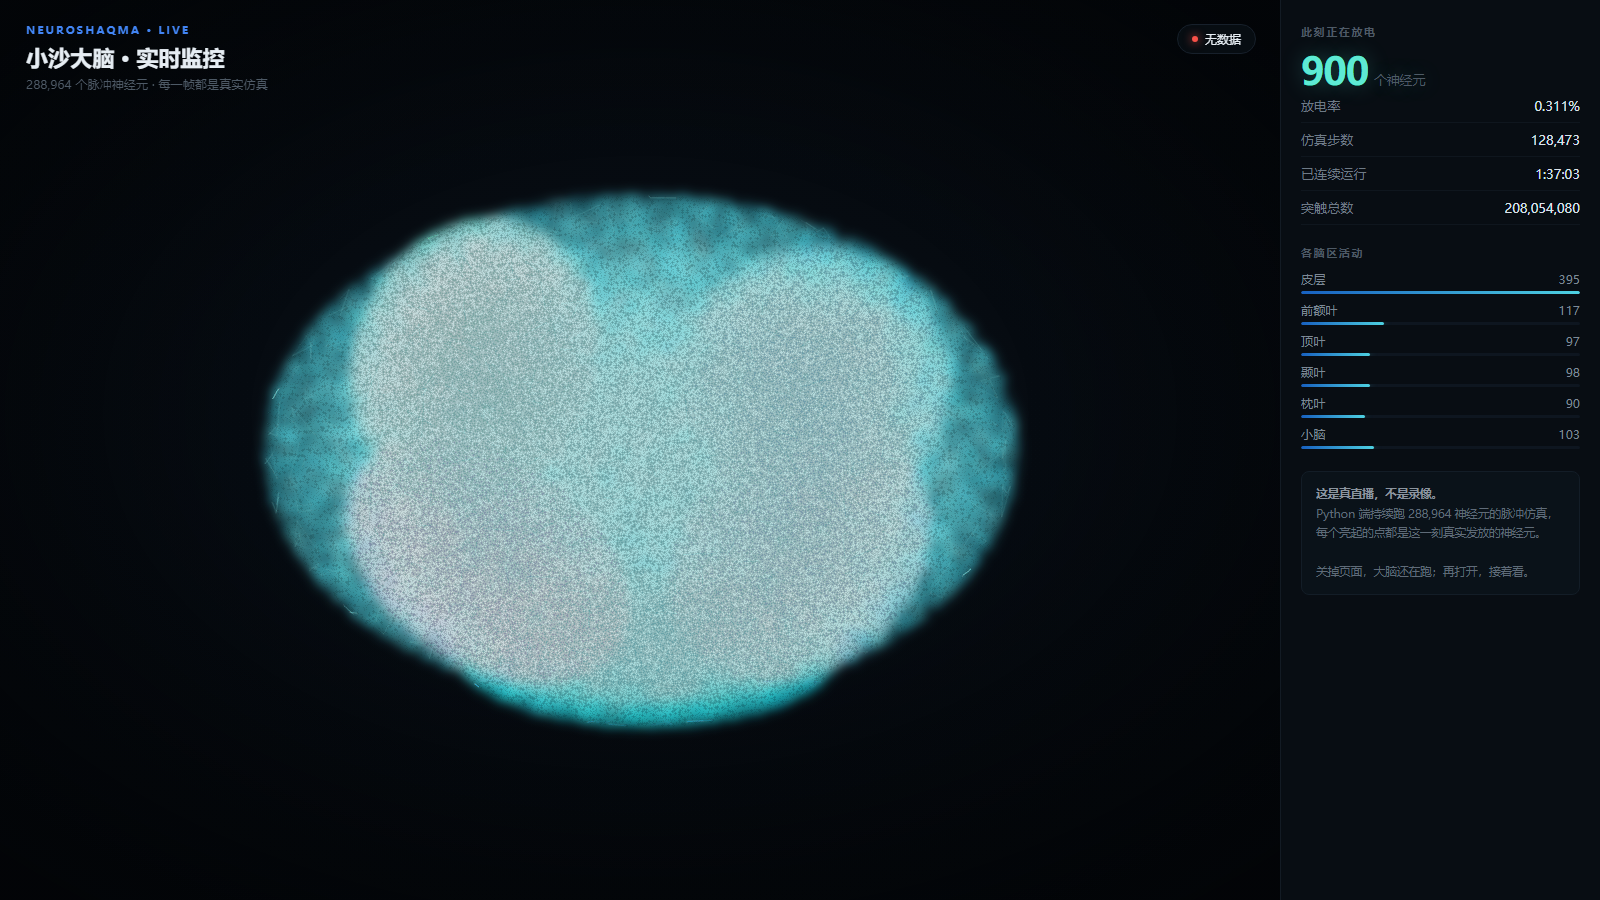
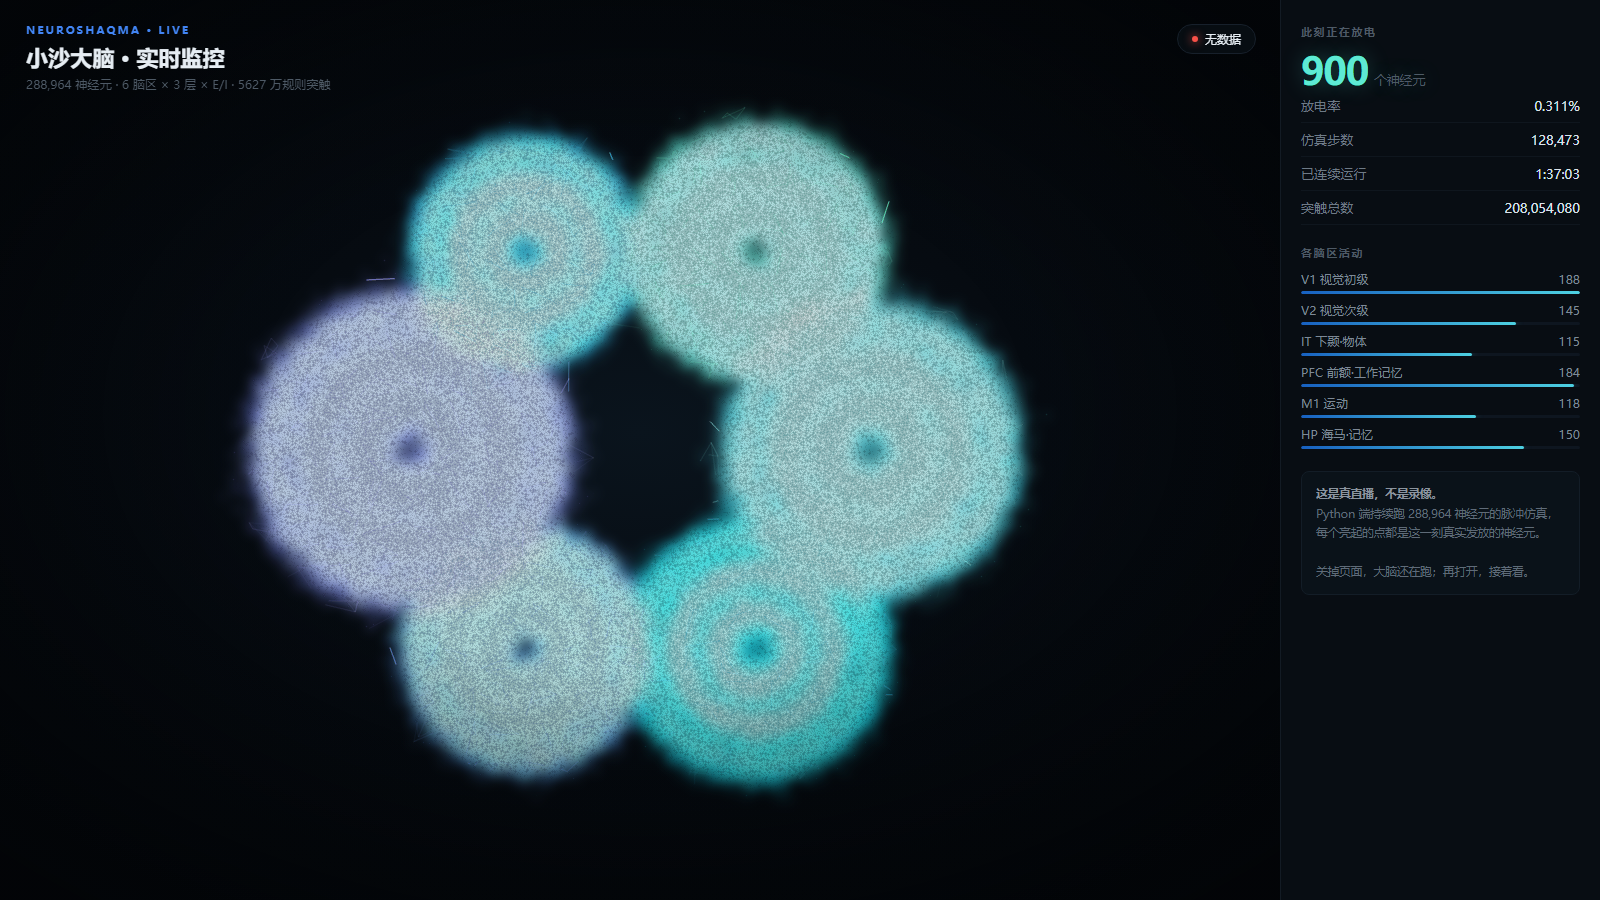
feat: live monitor now runs the structured cortex (real anatomy on screen)
- brain_live.py: switch from random-wired SpikingCortex to StructuredCortex
  (6 regions x 3 layers x E/I). layout.bin exports REAL region positions now,
  so the dots on screen are laid out by anatomy, not fictional clusters.
- brain-live.html: region labels are real (V1 / V2 / IT / PFC / M1 / HP)

E/I BALANCE FIX in xiaosha_structured.py
  Problem: E->E total input was 150 x 0.020 = 3.0, far above threshold 1.0.
  Any activity avalanched: measured 25.8% of neurons firing, 12.4 steps/s.
  Slow threshold feedback alone OSCILLATES (20% -> 0% -> 0.04% -> ...).

  Fix (excitation-inhibition balance + metabolic constraint):
    E->E    0.020 -> 0.007   (150 x 0.007 = 1.05, right at threshold)
    I->E   -0.180 -> -0.400  (stronger inhibition)
    I->I   -0.100 -> -0.220
    hard cap: at most 2% of neurons fire per step (real brains have a
              metabolic budget; this is more stable than slow threshold feedback)
    + gentle threshold drift as secondary control

  Result: 0.40% mean firing, 183 steps/s (was 12.4 steps/s at 25% firing).

Verified: selftest 7/7; SSE 32.5 frames/s; propagation order preserved
  V1@t0 -> V2@t3 -> PFC@t3 -> IT@t8 -> HP@t13

diff --git a/brain-live.html b/brain-live.html
@@ -69,7 +69,7 @@
     <div class="overlay">
       <div class="brand">NEUROSHAQMA · LIVE</div>
       <div class="title">小沙大脑 · 实时监控</div>
-      <div class="sub">288,964 个脉冲神经元 · 每一帧都是真实仿真</div>
+      <div class="sub">288,964 神经元 · 6 脑区 × 3 层 × E/I · 5627 万规则突触</div>
     </div>
     <div class="live"><span class="dot" id="dot"></span><span id="liveTxt">连接中</span></div>
     <div id="loading"><div><div class="spin"></div><div class="t" id="loadTxt">正在加载 288,964 个神经元…</div></div></div>
@@ -98,7 +98,8 @@
 (function(){
   const N_EXPECT = 288964;
   const REGIONS = [
-    {name:"皮层"},{name:"前额叶"},{name:"顶叶"},{name:"颞叶"},{name:"枕叶"},{name:"小脑"}
+    {name:"V1 视觉初级"},{name:"V2 视觉次级"},{name:"IT 下颞·物体"},
+    {name:"PFC 前额·工作记忆"},{name:"M1 运动"},{name:"HP 海马·记忆"}
   ];
   const COLORS = ["77,208,225","94,234,212","56,189,248","129,140,248","96,165,250","34,211,238"];
 

diff --git a/brain_live.py b/brain_live.py
@@ -20,7 +20,7 @@ import time
 sys.path.insert(0, os.path.dirname(os.path.abspath(__file__)))
 
 import numpy as np
-from xiaosha_cortex import SpikingCortex
+from xiaosha_structured import StructuredCortex, REGIONS
 
 # ---------------- 配置 ----------------
 N = 288964            # 真实神经元规模
@@ -41,42 +41,12 @@ REGIONS = [
 REGION_W = [0.42, 0.13, 0.12, 0.11, 0.11, 0.11]
 
 
-def build_layout():
-    """生成神经元 2D 位置（脑区团簇），保存为二进制供前端使用。"""
-    if os.path.exists(LAYOUT):
-        return np.fromfile(LAYOUT, dtype=np.float32).reshape(-1, 3)
+def build_layout(cx):
+    """从结构化皮层导出**真实**布局：脑区位置 + 层结构（不再是虚构团簇）。"""
+    layout = np.column_stack([cx.xy, cx.region_id.astype(np.float32)]).astype(np.float32)
+    layout.tofile(LAYOUT)
+    return layout
 
-    rng = np.random.RandomState(SEED)
-    n_per = [int(N * w) for w in REGION_W]
-    n_per[-1] = N - sum(n_per[:-1])
-
-    xs, ys, rs = [], [], []
-    for i, ((cx, cy, sx, sy, rot, _), nn) in enumerate(zip(REGIONS, n_per)):
-        th = rot
-        got = 0
-        gx, gy = [], []
-        while got < nn:
-            batch = min(nn - got + 4000, 60000)
-            x = rng.normal(0, sx, batch)
-            y = rng.normal(0, sy, batch)
-            mask = (x / (sx * 1.9)) ** 2 + (y / (sy * 1.9)) ** 2 < 1
-            x, y = x[mask], y[mask]
-            take = min(len(x), nn - got)
-            if take <= 0:
-                continue
-            x, y = x[:take], y[:take]
-            gx.append(x * np.cos(th) - y * np.sin(th) + cx)
-            gy.append(x * np.sin(th) + y * np.cos(th) + cy)
-            got += take
-        xs.append(np.concatenate(gx)); ys.append(np.concatenate(gy))
-        rs.append(np.full(nn, i, dtype=np.float32))
-
-    arr = np.stack([np.concatenate(xs), np.concatenate(ys), np.concatenate(rs)], axis=1).astype(np.float32)
-    arr.tofile(LAYOUT)
-    return arr
-
-
-TARGET_RATE = 0.003   # 目标放电率 0.3%（约 867 个/步）——视觉"繁星点点"且不糊
 
 def make_input(t):
     """感觉输入波形（结构：双通道扫动 + 周期事件 + 稀疏噪声）。
@@ -96,31 +66,22 @@ def make_input(t):
 
 
 def main():
-    layout = build_layout()
-    print(json.dumps({"type": "ready", "n": N,
-                      "msg": "layout ready"}), flush=True)
-
-    sys.stderr.write("[brain-live] 构造 %d 神经元...\n" % N)
-    cx = SpikingCortex(n=N, seed=SEED)
-    sys.stderr.write("[brain-live] 构造完成，开始直播\n")
+    sys.stderr.write("[brain-live] 构造结构化皮层 %d 神经元（6 脑区 x 3 层 x E/I）...\n" % N)
+    cx = StructuredCortex(total=N, seed=SEED)
+    layout = build_layout(cx)
+    sys.stderr.write("[brain-live] 构造完成: %s 突触，开始直播\n" % f"{cx.n_syn:,}")
+    print(json.dumps({"type": "ready", "n": N, "syn": cx.n_syn,
+                      "regions": [r[0] for r in REGIONS]}), flush=True)
 
     t = 0
     t_start = time.time()
     last_push = 0.0
-    gain = 0.12          # 输入增益（AGC 自动调节；从低处起，避免开局冲高爆炸）
+    # 注意：StructuredCortex 内建自适应阈值（稳态），不需要外层 AGC
     while True:
-        obs = make_input(t) * gain
+        obs = make_input(t)
         cx.step(obs)
         t += 1
         sp = cx._last_spike_ids
-        n_now = int(sp.size)
-        rate_now = n_now / N
-        # ---- AGC：闭环把放电率锁在 TARGET_RATE（否则会爆炸或静息）----
-        if rate_now > TARGET_RATE * 1.4:
-            gain *= 0.90
-        elif rate_now < TARGET_RATE * 0.6:
-            gain *= 1.05
-        gain = float(np.clip(gain, 0.02, 2.5))
         now = time.time()
         if (t % PUSH_EVERY == 0) and (now - last_push) > 0.02:  # 最多 50 帧/秒
             last_push = now
@@ -128,11 +89,9 @@ def main():
             if idx.size > MAX_SPIKES_SENT:
                 sel = np.random.choice(idx.size, MAX_SPIKES_SENT, replace=False)
                 idx = idx[sel]
-            # 各脑区活跃数
-            regions = layout[:, 2]
-            reg_counts = []
-            for r in range(len(REGIONS)):
-                reg_counts.append(int(np.count_nonzero(regions[sp] == r)) if sp.size else 0)
+            # 各脑区活跃数（真实脑区：V1/V2/IT/PFC/M1/HP）
+            rid_of_sp = cx.region_id[sp] if sp.size else np.zeros(0, dtype=np.int8)
+            reg_counts = [int(np.count_nonzero(rid_of_sp == r)) for r in range(len(REGIONS))]
             out = {
                 "t": t,
                 "n": int(sp.size),

diff --git a/xiaosha_structured.py b/xiaosha_structured.py
@@ -191,7 +191,7 @@ class StructuredCortex:
                         s = np.repeat(E23, k)
                         d = E23[self.rng.randint(0, E23.size, s.size)]
                         keep = s != d
-                        add(s[keep], d[keep], 0.020, 1)
+                        add(s[keep], d[keep], 0.007, 1)
                     # E→I：前馈兴奋（强，每 E 连 30 个 I）
                     if I23.size > 10:
                         s = np.repeat(E23, 30)
@@ -201,12 +201,12 @@ class StructuredCortex:
                     if E23.size > 100:
                         s = np.repeat(I23, 100)
                         d = E23[self.rng.randint(0, E23.size, s.size)]
-                        add(s, d, -0.180, 3)
+                        add(s, d, -0.400, 3)
                     # I→I：抑制性互抑
                     if I23.size > 10:
                         s = np.repeat(I23, 20)
                         d = I23[self.rng.randint(0, I23.size, s.size)]
-                        add(s, d, -0.100, 3)
+                        add(s, d, -0.220, 3)
 
         # ---- B. 层间微回路（L4 → L23 → L5，标准皮层方向）----
         for r in range(len(REGIONS)):
@@ -291,12 +291,18 @@ class StructuredCortex:
 
         # 发放
         sp = np.flatnonzero(v >= self.theta)
-        # 稳态调节：把全脑活跃率维持在 0.5%~3%（否则要么连锁爆炸要么熄灭）
+        # 代谢约束：每步发放不超过 2% 神经元（真实大脑受能量限制，这比缓慢的阈值反馈稳定）
+        # 光靠阈值慢速反馈会振荡（实测 20%→0%→0.04% 来回摆），硬限流 + 温和阈值才是稳的
+        max_n = max(1, int(self.total * 0.02))
+        if sp.size > max_n:
+            keep = np.argpartition(v[sp], -max_n)[-max_n:]
+            sp = np.sort(sp[keep])
+        # 温和的稳态调节（让阈值跟着活动水平缓慢漂移，辅助而非主控）
         rate_now = sp.size / self.total
-        if rate_now > 0.03:
-            self.theta = min(8.0, self.theta * 1.03)
-        elif rate_now < 0.005:
-            self.theta = max(self._theta0 * 0.5, self.theta * 0.995)
+        if rate_now > 0.015:
+            self.theta = min(12.0, self.theta * 1.02)
+        elif rate_now < 0.002:
+            self.theta = max(self._theta0 * 0.6, self.theta * 0.995)
         self._last_spike_ids = sp
         if sp.size:
             # 事件驱动：只处理发放神经元的下游（用 ptr 切片）
